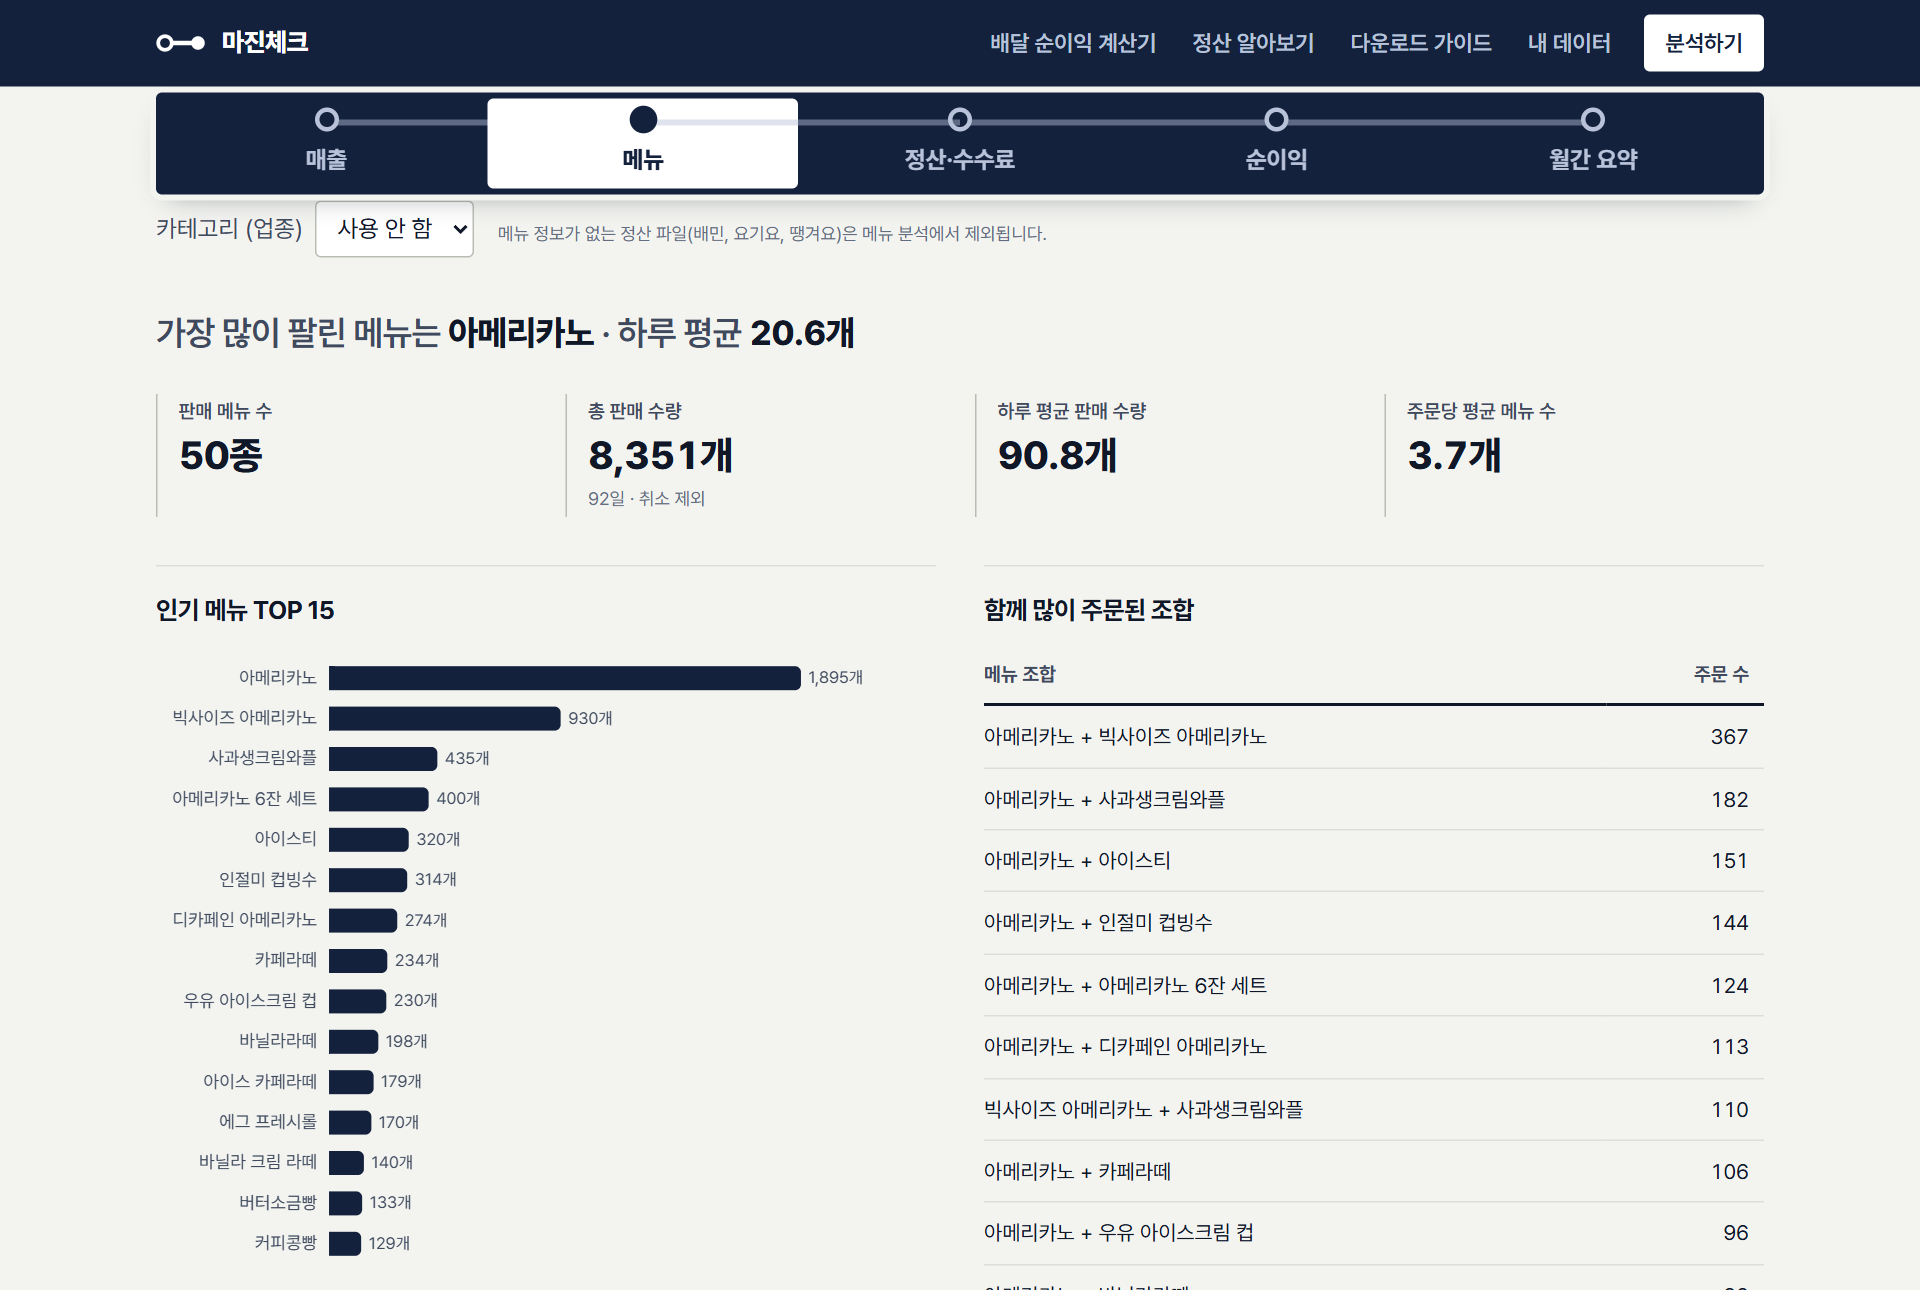
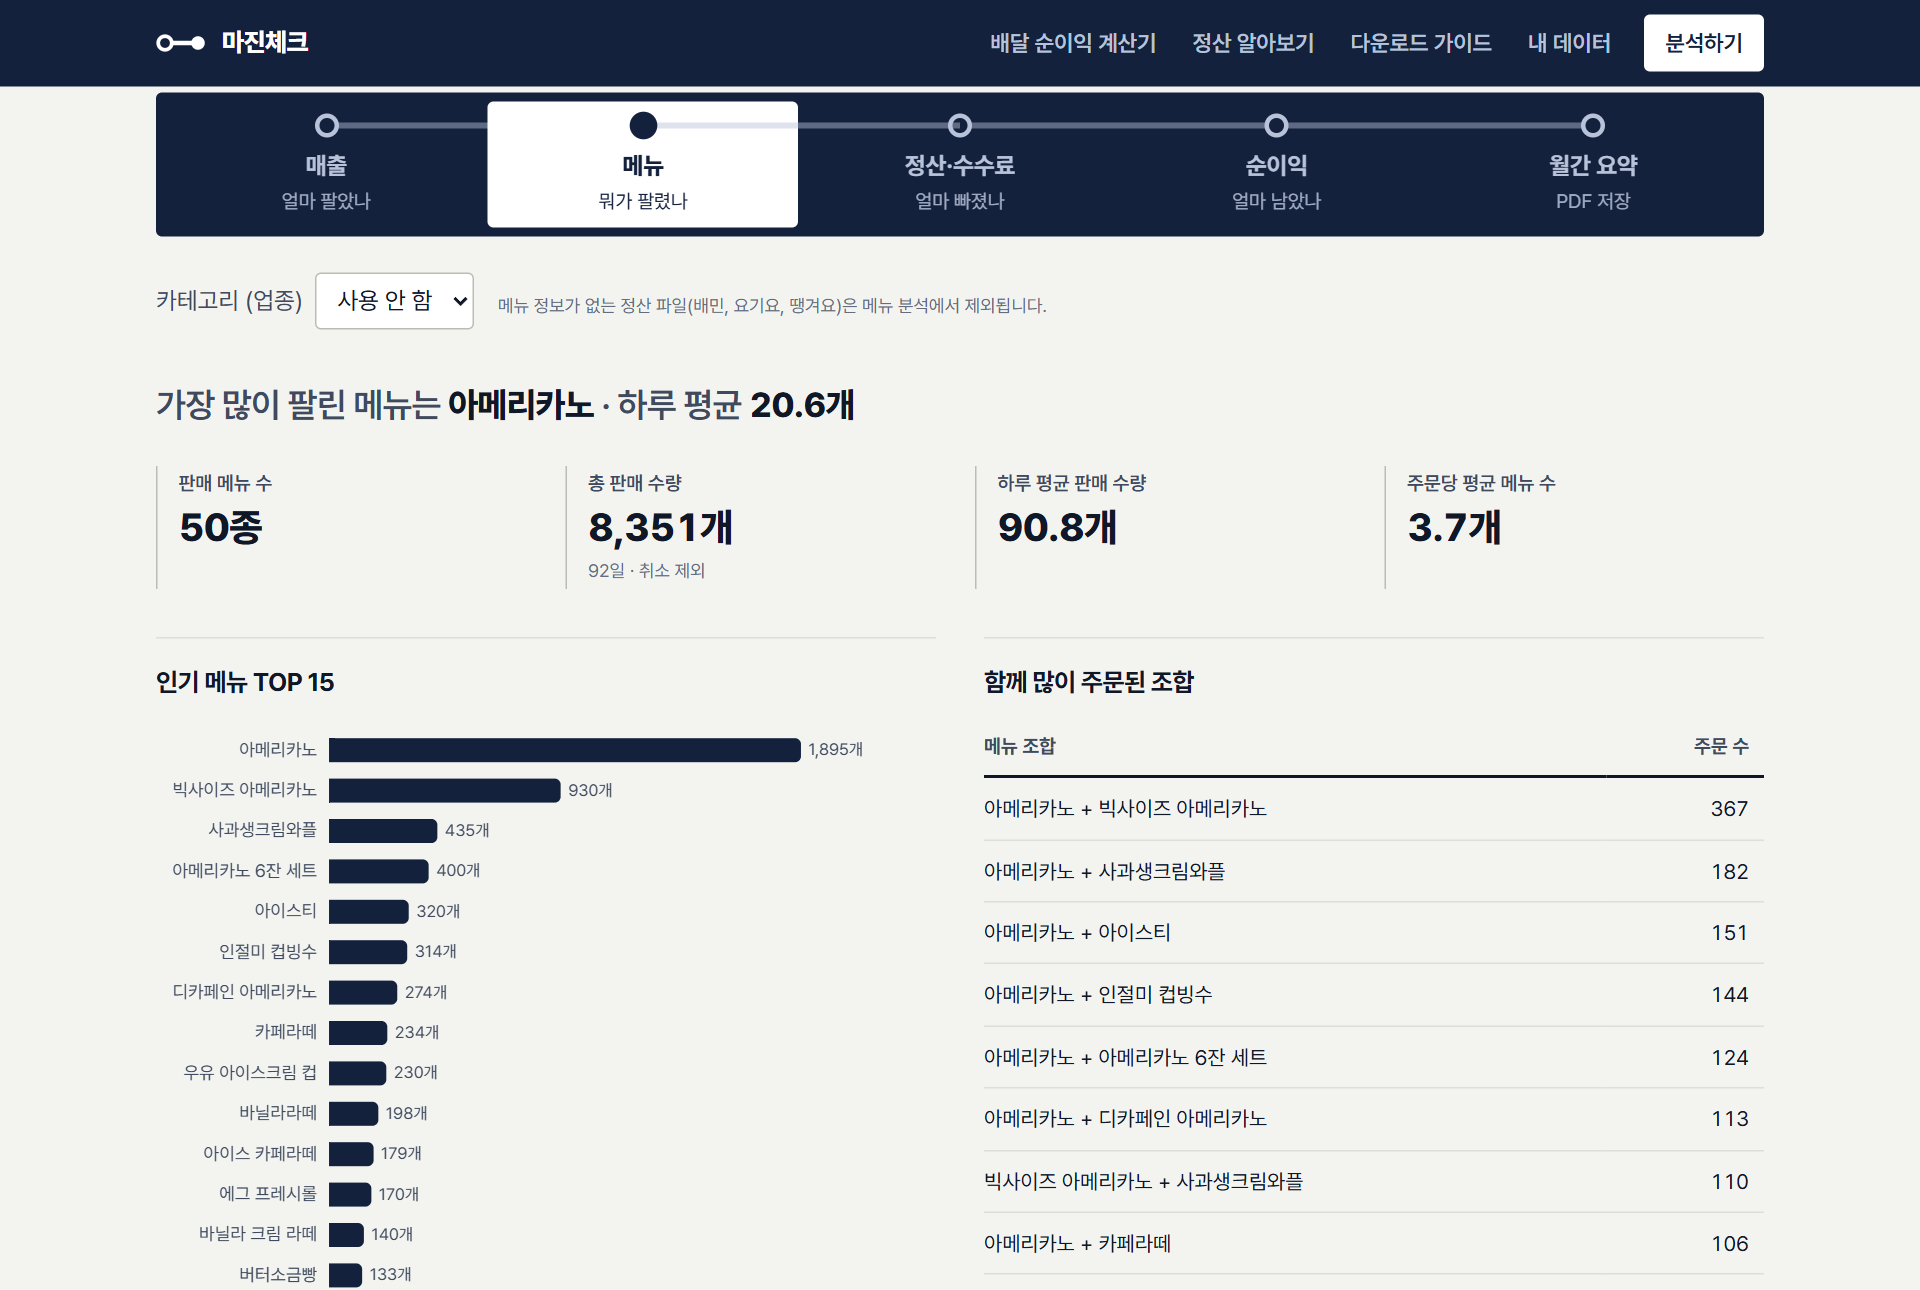
프로그램 업데이트 내역 반영: 앱오더 C++ 판, 마진체크 화면, 키오스크 버전
- 앱오더: 배민·쿠팡·요기요 배달 자동수락 문구, 대표 그림(SVG)으로 교체, 문제 해결·설치 경로(D:\AppOrderAuto) 수정
- 마진체크: 새 화면 캡처로 교체
- 키오스크: 기본 버전 v1.5
- 각 페이지 '다른 프로그램'에 메뉴 원가 계산기 추가
- 선결제 홍보물 크레딧 문구 수정
- CLAUDE.md: 사이트 수정 시 각 프로그램 업데이트 내역 반영 규칙

diff --git a/apporder-auto-accept.html b/apporder-auto-accept.html
@@ -40,19 +40,19 @@
             </p>
             <p class="where">포스기(Windows)에 설치 · 무료</p>
             <figure class="shot" style="margin-top: 36px">
-                <img src="img/apporder/main-on.png" width="514" height="141" alt="앱오더 자동수락 창. 초록 테두리 안에 '앱오더 자동수락 동작 중'이라고 적혀 있다">
-                <figcaption>켜 두기만 하면 됩니다. 초록 테두리면 동작 중이에요.</figcaption>
+                <img src="img/apporder/auto-accept.svg" width="800" height="456" alt="앱오더·배민·쿠팡이츠·요기요 주문 알림이 포스기에서 자동으로 수락되는 그림">
+                <figcaption>켜 두기만 하면 됩니다.</figcaption>
             </figure>
         </div>
 
         <aside class="slip" data-release="apporder-" aria-label="설치 파일">
             <div class="slip-title"><span>최신 버전</span><span>Windows</span></div>
-            <div class="slip-version num" data-r="version">v1.65</div>
+            <div class="slip-version num" data-r="version">v1.69</div>
             <hr class="slip-cut">
             <dl>
-                <dt>올린 날</dt><dd data-r="date">2026.10.30</dd>
-                <dt>파일 크기</dt><dd data-r="size">30MB</dd>
-                <dt>설치 위치</dt><dd>D:\AppOrder</dd>
+                <dt>올린 날</dt><dd data-r="date">2026.11.09</dd>
+                <dt>파일 크기</dt><dd data-r="size">2MB</dd>
+                <dt>설치 위치</dt><dd>D:\AppOrderAuto</dd>
                 <dt>설치할 곳</dt><dd>포스기</dd>
             </dl>
             <a class="btn btn-get" href="https://github.com/coffee-manager/deploy/releases/download/apporder-latest/compose-apporder-setup.exe">
@@ -80,31 +80,23 @@
                 <div class="perk">
                     <div>
                         <h3>주문 알림에 뛰어가지 않아도 돼요</h3>
-                        <p>앱오더 창이 닫혀 있어도 주문이 오면 창을 열어 수락합니다. 배민 포장 주문도 같이 받아요.</p>
-                        <p>버튼을 한 번 누르면 빨간 테두리로 바뀌며 잠시 멈추고, 다시 누르면 이어서 동작합니다.</p>
+                        <p>앱오더 창이 닫혀 있어도 주문이 오면 창을 열어 수락합니다. 배민·쿠팡·요기요 배달 주문도 같이 받아요.</p>
+                        <p>창 가운데 버튼을 한 번 누르면 잠시 멈추고, 다시 누르면 이어서 동작합니다.</p>
                     </div>
-                    <figure class="shot">
-                        <img src="img/apporder/main-off.png" width="514" height="141" alt="빨간 테두리 안에 '앱오더 자동수락 미 동작 중'이라고 적힌 창">
-                        <figcaption>빨간 테두리는 멈춘 상태예요.</figcaption>
-                    </figure>
                 </div>
 
                 <div class="perk">
                     <div>
                         <h3>우리 매장에 맞게 바꿔요</h3>
-                        <p>앱오더·배민 포장·배민 배달을 따로 켜고 끕니다. 음료 제조 시간, 영업 시간, 자동으로 포장 완료할 주문 개수도 정할 수 있어요.</p>
-                        <p>쿠팡·요기요 자동수락과 쿠팡 시간 설정도 새로 넣었어요.</p>
-                        <p class="note">포스기가 느린 매장은 인식 간격을 늘리면 부담이 줄어요.</p>
+                        <p>앱오더·배민 포장·배민 배달·쿠팡·요기요를 따로 켜고 끕니다. 쿠팡 조리시간(바로 수락·5분·10분 추가), 영업시간에만 수락, 자동으로 포장 완료할 주문 개수도 정할 수 있어요.</p>
+                        <p>배민·쿠팡·요기요 배달 자동수락을 새로 넣었어요.</p>
                     </div>
-                    <figure class="shot">
-                        <img src="img/apporder/option.png" width="784" height="591" alt="옵션 창. 성능 설정, 자동수락 설정, 음료 제조 시간, 영업 시간, 프로그램 항상 동작, 자동 포장 완료 설정">
-                    </figure>
                 </div>
 
                 <div class="perk">
                     <div>
                         <h3>켜는 걸 잊어도 괜찮아요</h3>
-                        <p>Windows가 켜질 때 함께 실행되고, 창을 닫아도 화면 오른쪽 아래 트레이에서 계속 동작합니다. 둘 다 옵션에서 끌 수 있어요.</p>
+                        <p>Windows가 켜질 때 함께 실행되고, 창을 닫아도 화면 오른쪽 아래 트레이에서 계속 동작합니다. 시작할 때 창을 숨길 수도 있어요. 모두 옵션에서 바꿀 수 있습니다.</p>
                     </div>
                 </div>
             </div>
@@ -135,11 +127,11 @@
                 </li>
                 <li>
                     <h3>[다음] → [설치]</h3>
-                    <p>관리자 권한은 필요 없어요. 기본으로 <b>D:\AppOrder</b>에 설치됩니다. D 드라이브가 없는 포스기는 사용자 폴더에 설치돼요.</p>
+                    <p>관리자 권한은 필요 없어요. 기본으로 <b>D:\AppOrderAuto</b>에 설치됩니다. D 드라이브가 없는 포스기는 <b>C:\AppOrderAuto</b>에 설치돼요. 설치 화면에서 다른 폴더를 고를 수도 있어요.</p>
                 </li>
                 <li>
                     <h3>바탕화면의 ‘앱오더 자동수락’ 실행</h3>
-                    <p>초록 테두리 창이 뜨면 끝입니다. 다음부터는 Windows가 켜질 때 알아서 실행돼요.</p>
+                    <p>‘앱오더 자동수락 동작 중’ 창이 뜨면 끝입니다. 다음부터는 Windows가 켜질 때 알아서 실행돼요.</p>
                     <p class="tip"><strong>예전 압축파일(zip) 버전을 쓰셨다면</strong> 트레이에서 예전 프로그램을 종료한 뒤 설치하세요. 설정은 그대로 이어지고, 예전 바로가기는 지워도 됩니다.</p>
                 </li>
             </ol>
@@ -154,7 +146,7 @@
             <div class="howto">
                 <div>
                     <h3>멈추기 / 다시 켜기</h3>
-                    <p>창 가운데 버튼을 누릅니다. 초록 테두리는 동작 중, 빨간 테두리는 멈춤이에요.</p>
+                    <p>창 가운데 버튼을 누릅니다. ‘동작 중’이면 수락하고, ‘미 동작 중’이면 멈춘 상태예요.</p>
                 </div>
                 <div>
                     <h3>설정 바꾸기</h3>
@@ -177,13 +169,13 @@
                 <details>
                     <summary>프로그램은 켜졌는데 주문이 자동수락되지 않아요</summary>
                     <div class="answer">
-                        <p>대부분 권한 문제입니다. 먼저 확인해 보세요.</p>
+                        <p>대부분 포스 프로그램이 관리자 권한으로 실행돼서 생기는 문제입니다. 옵션에서 바로 고칠 수 있어요.</p>
                         <ol>
-                            <li>바탕화면 ‘앱오더 자동수락’을 오른쪽 클릭</li>
-                            <li>[관리자 권한으로 실행]</li>
-                            <li>이제 수락된다면 권한 문제가 맞아요</li>
+                            <li>창 위 메뉴 [옵션]</li>
+                            <li>‘관리자 권한 실행’ 켜기 → [저장]</li>
+                            <li>다시 시작할지 물으면 [예], Windows 권한 허용 창이 뜨면 [예]</li>
                         </ol>
-                        <p>해결은 둘 중 하나입니다. 앱오더 자동수락을 항상 관리자 권한으로 실행하거나, 포스 프로그램을 일반 권한(관리자 권한 아님)으로 실행하세요. 포스 쪽 설정이 어렵다면 포스뱅크에 문의하면 바꿔 줍니다.</p>
+                        <p>권한 허용 창은 처음 한 번만 떠요. 그래도 안 되면 ‘영업시간에만 자동수락’이 켜져 있는지, 지금이 영업시간 안인지 확인해 주세요.</p>
                     </div>
                 </details>
                 <details>
@@ -199,9 +191,10 @@
                     </div>
                 </details>
                 <details>
-                    <summary>포스기가 느려졌어요</summary>
+                    <summary>쿠팡·요기요 주문만 수락되지 않아요</summary>
                     <div class="answer">
-                        <p>[옵션] → 성능 설정에서 인식 간격을 늘려 주세요. 간격이 길수록 포스기 부담이 줄어요.</p>
+                        <p>[옵션]에서 쿠팡·요기요 자동수락이 켜져 있는지 확인하세요.</p>
+                        <p>주문 창이 다른 창에 가려져 있으면 누르지 않아요. 앱오더 자동수락 창이나 다른 창이 주문 창을 덮지 않게 옆으로 옮겨 주세요.</p>
                     </div>
                 </details>
                 <details>
@@ -223,6 +216,7 @@
                 <a class="btn" href="deposit.html">선결제 관리</a>
                 <a class="btn" href="margin-check.html">마진체크</a>
                 <a class="btn" href="kiosk-auto-start.html">키오스크 자동 영업시작</a>
+                <a class="btn" href="https://profit-calculator.duckdns.org/" target="_blank" rel="noopener">메뉴 원가 계산기</a>
             </div>
         </div>
     </section>

diff --git a/index.html b/index.html
@@ -45,16 +45,16 @@
                 <p>앱오더·배민·쿠팡·요기요 주문이 들어오면 알아서 수락합니다.</p>
                 <ul>
                     <li>새로 만들어 메모리 사용량 1/10, 오래된 윈도우7 포스도 가볍게</li>
-                    <li>쿠팡 시간 설정 기능 추가</li>
+                    <li>배민·쿠팡·요기요 배달 자동수락 추가</li>
                     <li>주문 알림이 울릴 때마다 포스기로 뛰어갈 필요가 없어요</li>
-                    <li>영업시간, 제조 시간, 자동 포장 완료 개수까지 매장에 맞게</li>
+                    <li>영업시간, 쿠팡 조리시간, 자동 포장 완료 개수까지 매장에 맞게</li>
                 </ul>
                 <div class="actions">
                     <a class="btn" href="apporder-auto-accept.html">설치·사용 방법 보기</a>
                 </div>
             </div>
             <figure class="shot">
-                <img src="img/apporder/option.png" width="784" height="591" alt="앱오더 자동수락 옵션 창. 성능, 자동수락, 제조 시간, 영업 시간, 자동 포장 완료 설정이 보인다">
+                <img src="img/apporder/auto-accept.svg" width="800" height="456" alt="앱오더·배민·쿠팡이츠·요기요 주문 알림이 포스기에서 자동으로 수락되는 그림">
             </figure>
         </li>
 

diff --git a/kiosk-auto-start.html b/kiosk-auto-start.html
@@ -43,10 +43,10 @@
 
         <aside class="slip" data-release="kiosk-" aria-label="설치 파일">
             <div class="slip-title"><span>최신 버전</span><span>Windows</span></div>
-            <div class="slip-version num" data-r="version">v1.3</div>
+            <div class="slip-version num" data-r="version">v1.5</div>
             <hr class="slip-cut">
             <dl>
-                <dt>올린 날</dt><dd data-r="date">2026.10.30</dd>
+                <dt>올린 날</dt><dd data-r="date">2026.11.03</dd>
                 <dt>파일 크기</dt><dd data-r="size">28MB</dd>
                 <dt>설치 위치</dt><dd>D:\KioskAutoRun</dd>
                 <dt>설치할 곳</dt><dd>키오스크</dd>
@@ -160,6 +160,7 @@
                 <a class="btn" href="apporder-auto-accept.html">앱오더 자동수락</a>
                 <a class="btn" href="deposit.html">선결제 관리</a>
                 <a class="btn" href="margin-check.html">마진체크</a>
+                <a class="btn" href="https://profit-calculator.duckdns.org/" target="_blank" rel="noopener">메뉴 원가 계산기</a>
             </div>
         </div>
     </section>

diff --git a/deposit.html b/deposit.html
@@ -210,7 +210,7 @@
                 <div>
                     <p>매장 상황에 맞게 자유롭게 고쳐서 쓰셔도 됩니다.</p>
                     <p><a class="btn" href="img/deposit/promo-print.png" download="선결제_홍보물.png">홍보물 내려받기</a></p>
-                    <p class="note">만든 분: 컴포즈커피 강북번동점 점주님</p>
+                    <p class="note">홍보물 만든 분: 컴포즈커피 강북번동점 점주님</p>
                 </div>
                 <figure class="shot shot-small">
                     <img src="img/deposit/promo.png" width="1414" height="2000" alt="선결제 안내 홍보물 예시">
@@ -268,6 +268,7 @@
                 <a class="btn" href="apporder-auto-accept.html">앱오더 자동수락</a>
                 <a class="btn" href="margin-check.html">마진체크</a>
                 <a class="btn" href="kiosk-auto-start.html">키오스크 자동 영업시작</a>
+                <a class="btn" href="https://profit-calculator.duckdns.org/" target="_blank" rel="noopener">메뉴 원가 계산기</a>
             </div>
         </div>
     </section>

diff --git a/margin-check.html b/margin-check.html
@@ -174,6 +174,7 @@
                 <a class="btn" href="apporder-auto-accept.html">앱오더 자동수락</a>
                 <a class="btn" href="deposit.html">선결제 관리</a>
                 <a class="btn" href="kiosk-auto-start.html">키오스크 자동 영업시작</a>
+                <a class="btn" href="https://profit-calculator.duckdns.org/" target="_blank" rel="noopener">메뉴 원가 계산기</a>
             </div>
         </div>
     </section>

diff --git a/CLAUDE.md b/CLAUDE.md
@@ -1,0 +1,21 @@
+# 점주 도구함 웹사이트
+
+컴포즈 매장용 무료 프로그램 소개·다운로드 사이트. 정적 HTML (GitHub Pages).
+
+## 사이트를 고칠 때
+
+먼저 각 프로그램 저장소의 커밋 내역(`git log`)과 코드를 확인하고, 바뀐 기능·화면·설정·설치 경로를 페이지에 반영한다.
+소개 문구, 사용 방법, 문제 해결(FAQ), 설치 방법, 버전 표시까지 같이 맞춘다.
+
+| 페이지 | 프로그램 저장소 (`C:\Users\JiHoon\IdeaProjects\`) |
+|---|---|
+| `apporder-auto-accept.html` | `ComposeAppOrderCPP` (C++ 판. 예전 Java 판 `ComposeAppOrder` 는 안 씀) |
+| `deposit.html` | `ComposeDeposit` |
+| `kiosk-auto-start.html` | `Compose-KioskAutoRun` |
+| `margin-check.html` | 웹사이트 https://margincheck.store |
+| 메뉴 원가 계산기 (`index.html` 카드, 각 페이지 '다른 프로그램') | `profit-calculator` |
+
+- 릴리스 버전·날짜·크기: https://github.com/coffee-manager/deploy/releases. 페이지의 `data-r` 기본값도 최신으로 맞춘다.
+- 앱오더 대표 그림 `img/apporder/auto-accept.svg` 는 실제 화면이 아닌 그림이라 프로그램 화면이 바뀌어도 그대로 둔다.
+- 마진체크 화면은 `https://margincheck.store/analyze?demo` 를 1280×860, 배율 1.5 로 캡처한다.
+- 자동 업데이트·Java 안내 문구는 넣지 않는다.
